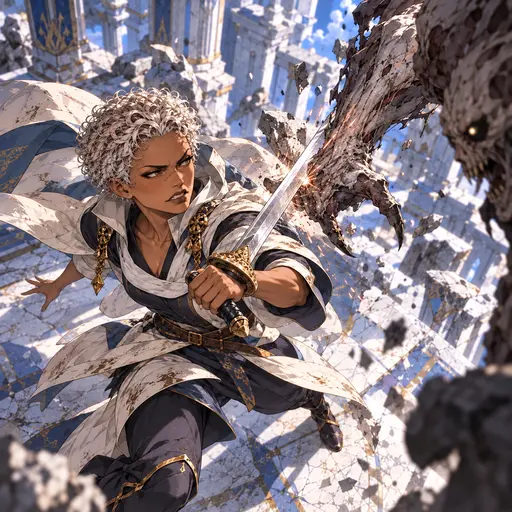
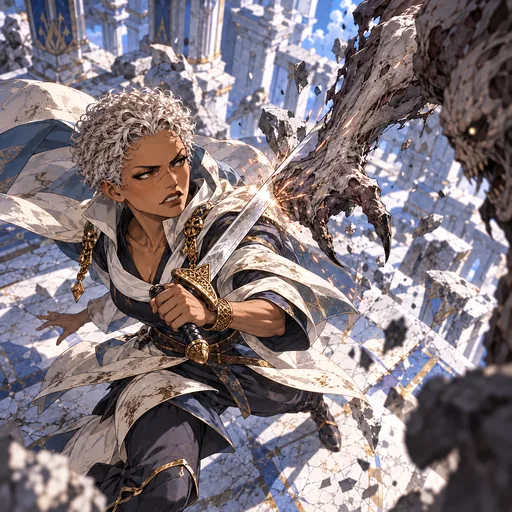
art: integrate Benedict kit and correct Justus technique

diff --git a/src/character-art-registry.js b/src/character-art-registry.js
@@ -1127,4 +1127,24 @@ export const characterArtRegistry = {
       "despertar": "/art/characters/a-testemunha-integra/dark-pictorial-rework-20261031/skill-despertar.webp"
     }
   }
+  "o-julgador-gentil": {
+    "portrait": "/art/characters/o-julgador-gentil/dark-pictorial-rework-20261031/portrait.webp",
+    "passive": "/art/characters/o-julgador-gentil/dark-pictorial-rework-20261031/passive.webp",
+    "abilities": {
+      "impulso": "/art/characters/o-julgador-gentil/dark-pictorial-rework-20261031/skill-impulso.webp",
+      "tecnica": "/art/characters/o-julgador-gentil/dark-pictorial-rework-20261031/skill-tecnica.webp",
+      "voto": "/art/characters/o-julgador-gentil/dark-pictorial-rework-20261031/skill-voto.webp",
+      "despertar": "/art/characters/o-julgador-gentil/dark-pictorial-rework-20261031/skill-despertar.webp"
+    }
+  },
+  "o-julgador-gentil": {
+    "portrait": "art/characters/o-julgador-gentil/dark-pictorial-rework-20261031/portrait.webp",
+    "passive": "art/characters/o-julgador-gentil/dark-pictorial-rework-20261031/passive.webp",
+    "abilities": {
+      "impulso": "art/characters/o-julgador-gentil/dark-pictorial-rework-20261031/skill-impulso.webp",
+      "tecnica": "art/characters/o-julgador-gentil/dark-pictorial-rework-20261031/skill-tecnica.webp",
+      "voto": "art/characters/o-julgador-gentil/dark-pictorial-rework-20261031/skill-voto.webp",
+      "despertar": "art/characters/o-julgador-gentil/dark-pictorial-rework-20261031/skill-despertar.webp"
+    }
+  }
 };

diff --git a/src/character-identity.js b/src/character-identity.js
@@ -680,9 +680,9 @@ export const characterRevisions = {
     "lore": "Encara a consequência antes de julgar. Acumula o peso dos atos para deter o excesso com uma decisão proporcional, sem recorrer à opressão de Coroa."
   },
   "o-julgador-gentil": {
-    "name": "Ashoka",
+    "name": "Benedict",
     "title": "O Juiz",
-    "englishName": "Ashoka",
+    "englishName": "Benedict",
     "englishTitle": "The Judge",
     "aliases": ["O Juiz","O Julgador Gentil"],
     "lore": "A clemência não enfraquece sua autoridade: define quando reparar e quando deter uma agressão. Sua justiça preserva a medida que os tiranos abandonaram.",

diff --git a/docs/ART_BENEDICT_DARK_PICTORIAL_REWORK_20261031.md b/docs/ART_BENEDICT_DARK_PICTORIAL_REWORK_20261031.md
@@ -1,0 +1,20 @@
+# Benedict — O Juiz
+
+Revisão dark fantasy pictórica em 31 de outubro de 2026.
+
+- Seis cenas-base: retrato, passiva e quatro habilidades; nenhuma forma dedicada.
+- Seis WebP ativos em 512 × 512 e seis matrizes JPEG em 768 × 768.
+- Todas aguardam aprovação visual final.
+- Mantidos os cachos castanho-escuros com mecha prateada, pele oliva, óculos redondos, casaco judicial marfim, faixa azul-petróleo, martelo artesanal e braçadeira oval de madeira.
+- As habilidades mostram exatamente um beneficiário ou inimigo quando aplicável; o Despertar protege apenas Benedict.
+
+| Espaço | Cena | Alvo |
+|---|---|---|
+| Retrato | Benedict percebe uma ameaça fora de quadro no pátio de mármore, com martelo de madeira e braçadeira oval visíveis. | Self |
+| Clemência Inabalável | Após apoiar uma aliada ferida, uma proteção azul-dourada envolve o ombro dela e concede Defesa; Benedict e uma única aliada distinta. | 1 aliada |
+| Advertência do Juiz | O martelo atinge a guarda de um único inimigo, cuja postura cede sob a advertência física. | 1 inimigo |
+| Reparação Justa | Benedict cura uma única aliada; a aflição escura se dissipa e ela recupera o fôlego. | 1 aliada |
+| Limite da Clemência | Contra um único inimigo já enfraquecido, Benedict desvia o braço e golpeia com o martelo, deixando-o atordoado. | 1 inimigo |
+| Trégua Inviolável | Benedict pivota e detém uma única lança com a braçadeira; a proteção cobre apenas o próprio juiz. | Self; 1 projétil vindo de fora do quadro |
+
+Ativos WebP: `/art/characters/o-julgador-gentil/dark-pictorial-rework-20261031`; fontes JPEG: `art/source/o-julgador-gentil-dark-pictorial-rework-20261031`. Manifesto: `docs/ART_BENEDICT_DARK_PICTORIAL_REWORK_20261031.json`.

diff --git a/docs/ART_JUSTUS_DARK_PICTORIAL_REWORK_20261031.md b/docs/ART_JUSTUS_DARK_PICTORIAL_REWORK_20261031.md
@@ -6,7 +6,7 @@ Revisão dark fantasy pictórica em 31 de outubro de 2026.
 - Seis candidatas WebP ativas em 512 × 512; seis matrizes JPEG retidas em 768 × 768.
 - Todas aguardam aprovação visual final.
 - A personagem preserva pele castanha quente, cachos prateados curtos, vestes marfim e azul-marinho e espada prateada.
-- A Técnica foi refeita para corrigir a continuidade dos braços, da pegada e do golpe. Rotas de arte atualizadas; nenhuma mecânica de combate alterada.
+- A Técnica foi corrigida novamente: braço, punho, mão e empunhadura estão alinhados, com a lâmina contínua até o ponto de contato. Nenhuma mecânica de combate foi alterada.
 
 | Espaço | Cena | Alvo |
 |---|---|---|
